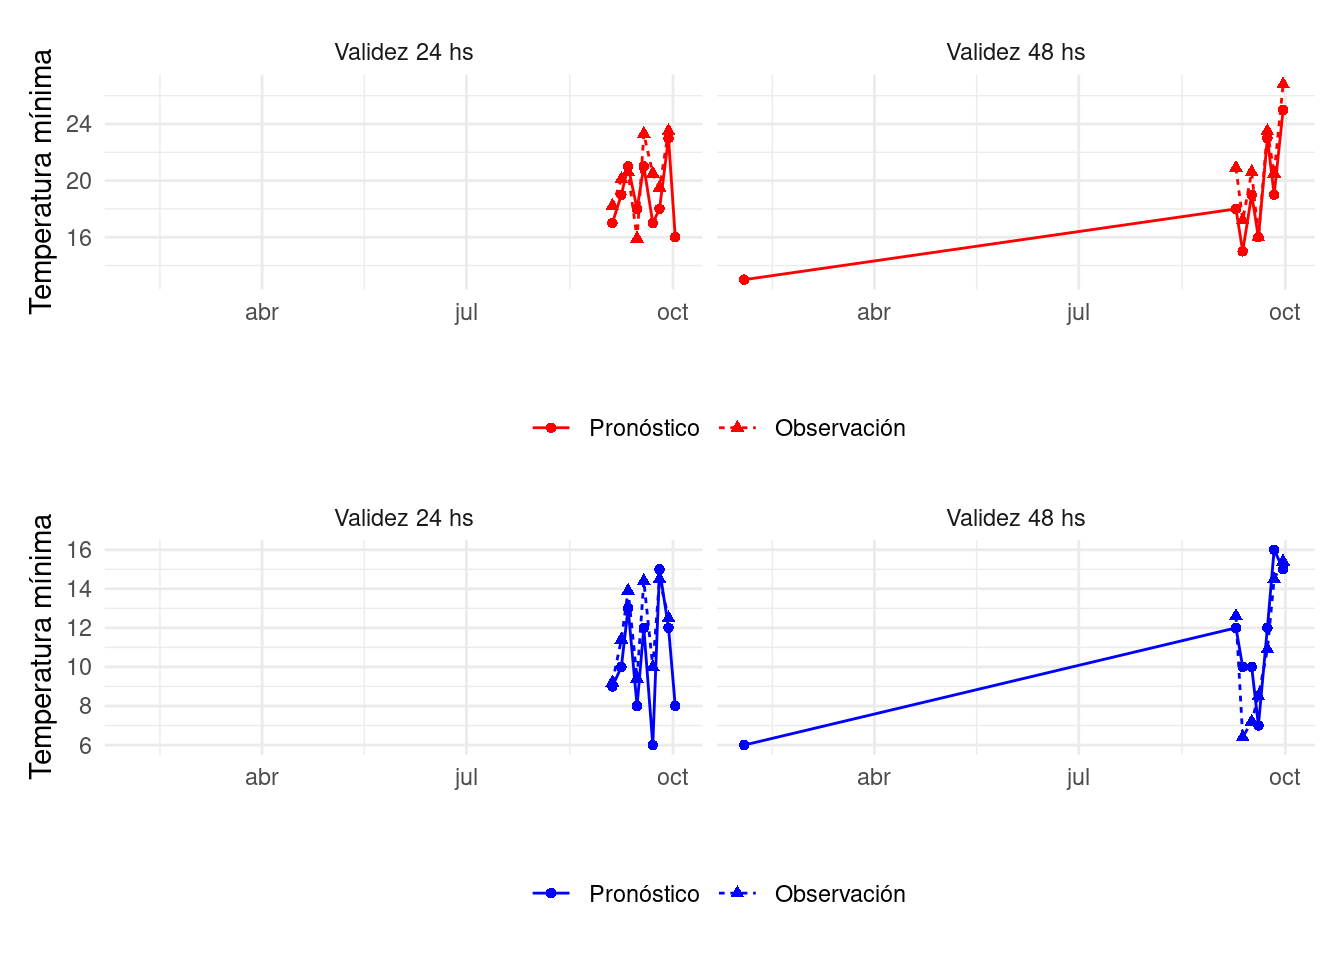
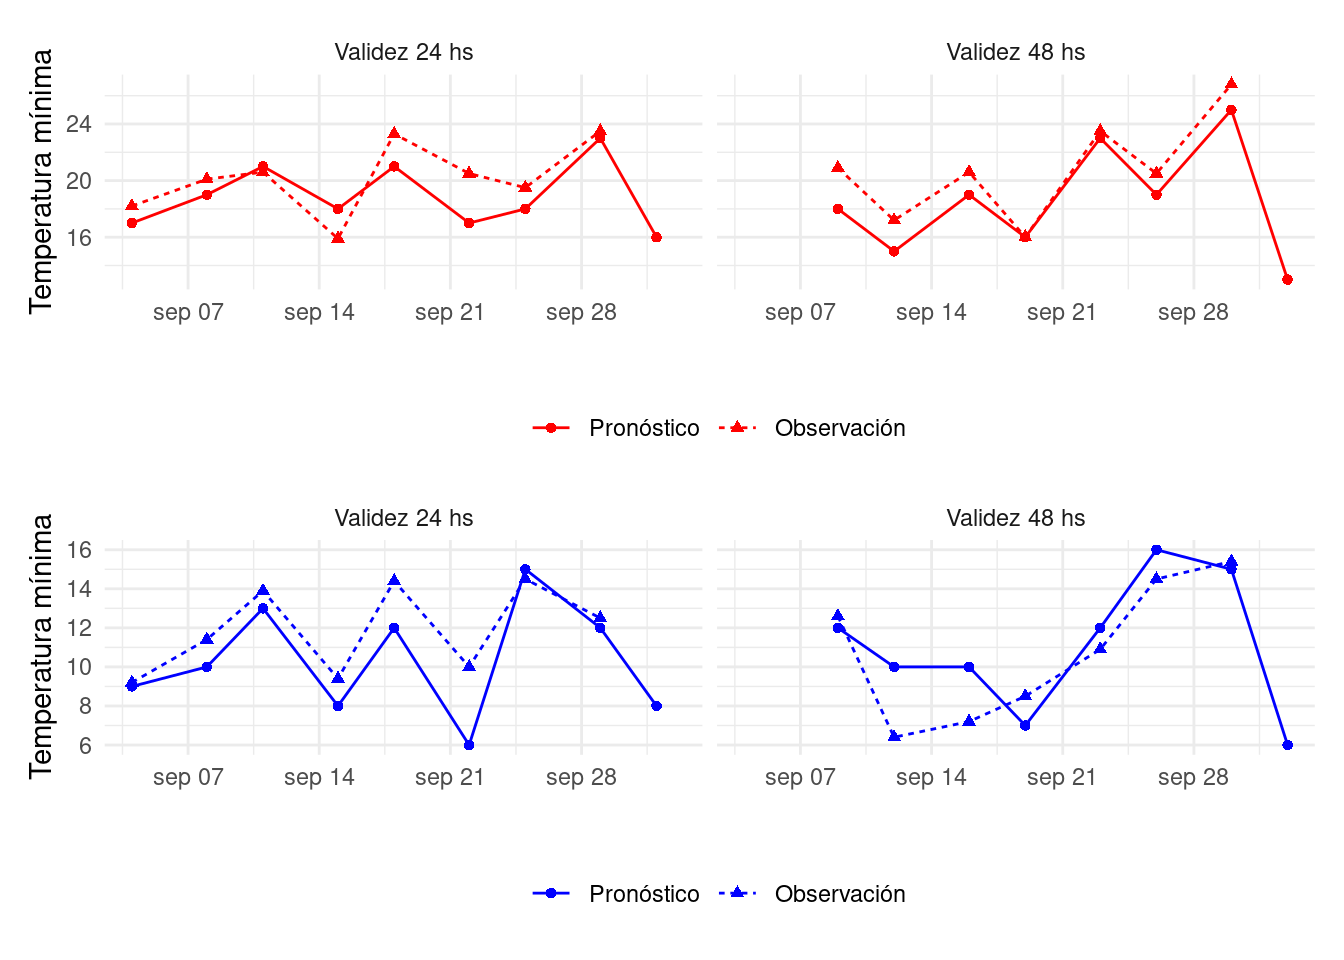
Arreglo fechas

diff --git a/docs/index.html b/docs/index.html
@@ -362,7 +362,7 @@ S
 </tr>
 <tr>
 <td style="text-align:left;">
-03/02/2020
+03/10/2020
 </td>
 <td style="text-align:left;max-width: 22em; ">
 Se espera que continue el viento sostenido del SE favoreciendo una mayor disminución de la temperatura con una minína entre 6 y 7 grados y la máxima alrededor de 13 grados
@@ -439,7 +439,7 @@ NE
 </tr>
 <tr>
 <td style="text-align:left;">
-03/02/2020
+03/10/2020
 </td>
 <td style="text-align:left;max-width: 22em; ">
 Se espera un día mayormente nublado y vientos leves del sector este. La temperatura disminuirá gracias al desplazamiento de una masa de aire más fría generando temperaturas mńimas de entre 8 y 10 grados y máxima de entre 14 y 16. Por la tarde se espera un aumento de la nubosidad y baja probabilidad de chaparrones.
@@ -516,7 +516,7 @@ S
 </tr>
 <tr>
 <td style="text-align:left;">
-03/02/2020
+03/10/2020
 </td>
 <td style="text-align:left;max-width: 22em; ">
 Se espera un día nublado con vientos moderados del S-SE generando una disminución marcada de la temperatura. Se espera poca amplitud térmica con minima de entre 6 y 8 grados y máxima de 12.
